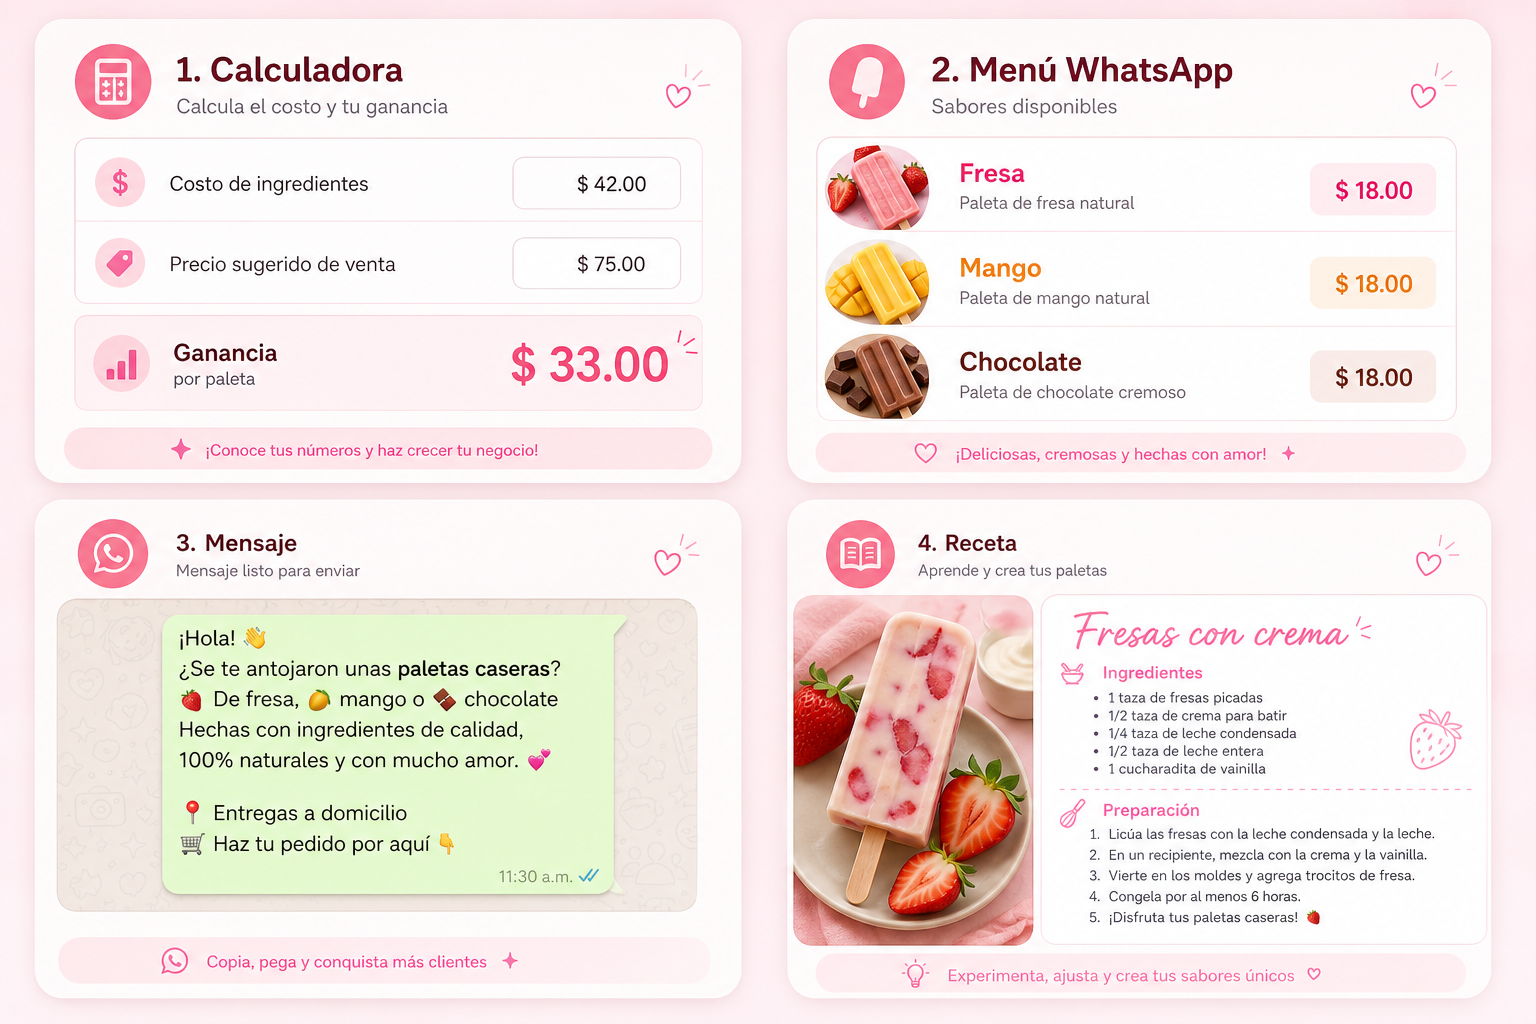
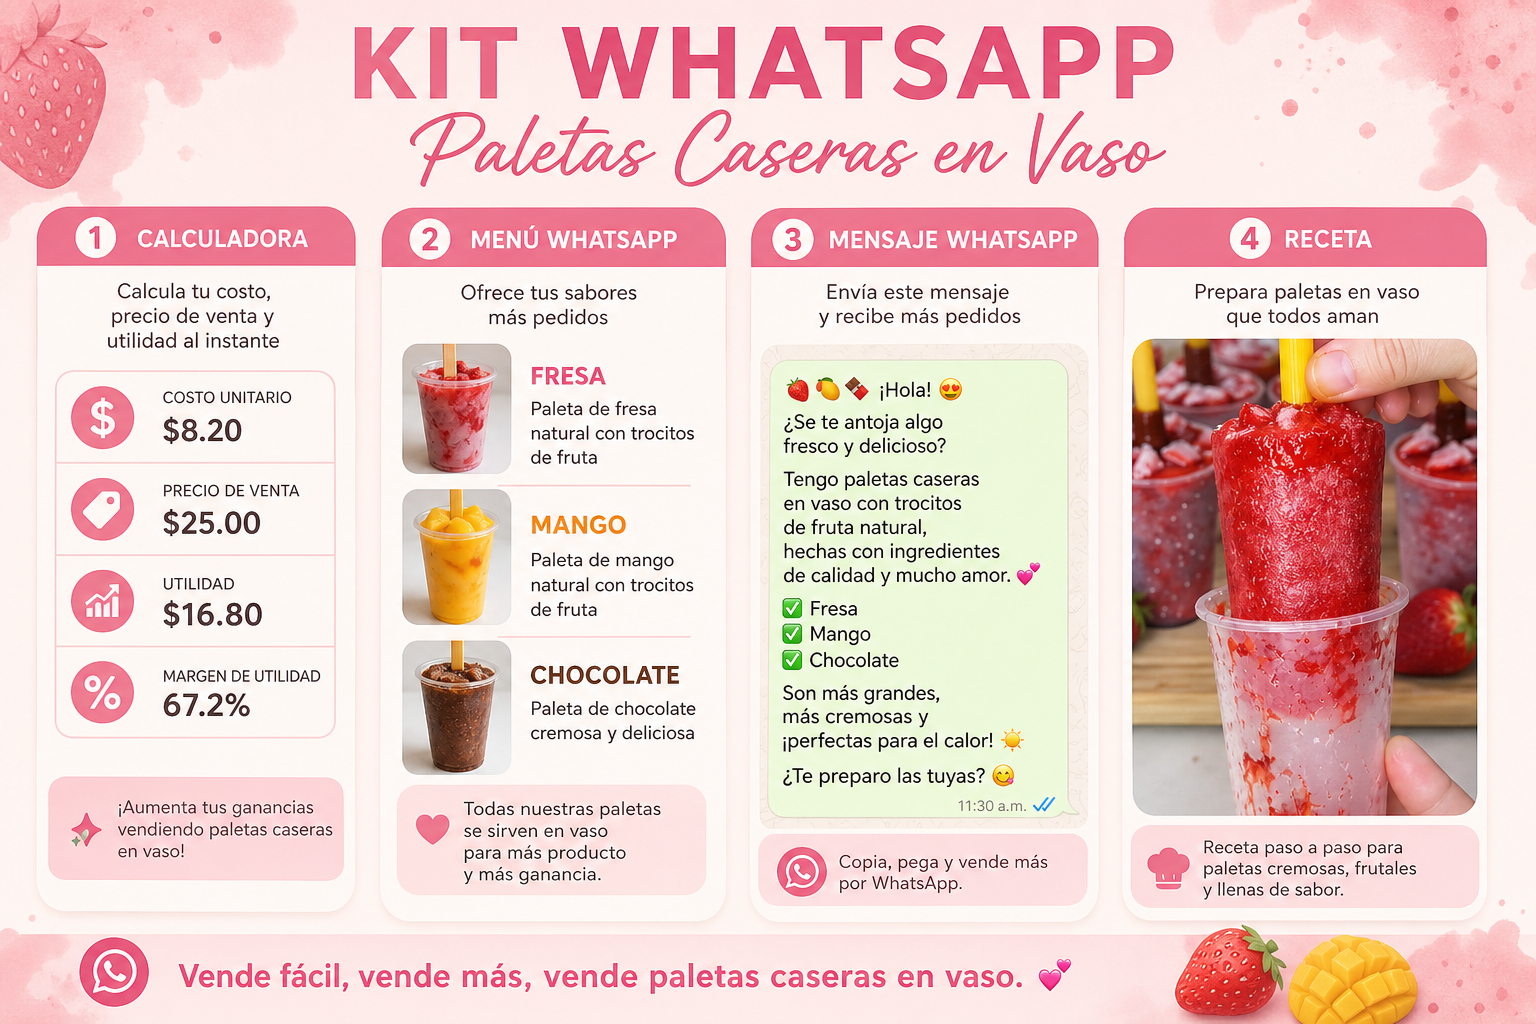
Swap LP food visuals to real paletas-in-cup photos matching the ads.
Remove AI ice-cream-bar mockups that clashed with the product shown in creatives.

diff --git a/styles.css b/styles.css
@@ -3391,8 +3391,31 @@ h3 {
 }
 
 .hero-product-mock {
-  margin: 4px auto 16px;
-  max-width: 400px;
+  margin: 4px auto 12px;
+  max-width: 520px;
+}
+
+.hero-flavor-strip {
+  display: grid;
+  grid-template-columns: 1fr 1.2fr 1fr;
+  gap: 8px;
+  max-width: 520px;
+  margin: 0 auto 18px;
+}
+
+.hero-flavor-strip img {
+  width: 100%;
+  height: 110px;
+  object-fit: cover;
+  border-radius: 14px;
+  border: 1px solid rgba(232, 67, 122, 0.12);
+  box-shadow: 0 8px 18px rgba(61, 34, 40, 0.08);
+}
+
+@media (min-width: 720px) {
+  .hero-flavor-strip img {
+    height: 140px;
+  }
 }
 
 .product-kit {

diff --git a/index.html b/index.html
@@ -89,9 +89,14 @@
     <div class="container">
       <h1>Convierte paletas caseras en una oferta lista para vender por WhatsApp</h1>
       <p class="hero-audience">Para quien quiere empezar una renta extra con paletas, incluso sin experiencia y con poco dinero.</p>
-      <figure class="hero-product-mock" aria-label="Vista del kit digital Paletas para WhatsApp">
-        <img src="/paletas/hero-kit-mockup.png" alt="Mockup del kit: recetas, calculadora, menú y mensajes en el celular" class="hero-product-mock__img" width="720" height="720" loading="eager" fetchpriority="high">
+      <figure class="hero-product-mock" aria-label="Paletas caseras en vaso">
+        <img src="/paletas/hero-variedad-paletas.webp?v=6" alt="Paletas caseras de mango, fresa y chocolate en vaso" class="hero-product-mock__img" width="720" height="480" loading="eager" fetchpriority="high">
       </figure>
+      <div class="hero-flavor-strip" aria-label="Más sabores de paletas">
+        <img src="/paletas/paleta-banada-salsa.webp?v=6" alt="Paleta de fresa bañada en salsa" width="280" height="350" loading="lazy">
+        <img src="/paletas/hero-paletas-fresas.webp?v=6" alt="Paletas de fresa en vaso" width="280" height="350" loading="lazy">
+        <img src="/paletas/preparacion-vasos.webp?v=6" alt="Preparación de paletas caseras en vaso" width="280" height="350" loading="lazy">
+      </div>
       <p class="subheadline">
         Recetas, calculadora, menú editable y mensajes listos para empezar desde casa sin improvisar.
       </p>
@@ -118,9 +123,6 @@
       <p class="section-label">● Así funciona</p>
       <h2>Cuatro pasos. Una oferta lista.</h2>
       <p class="section-text">Elige la receta, calcula el precio, monta el menú y publica en WhatsApp.</p>
-      <figure class="flow-mock">
-        <img src="/paletas/kit-flow-4steps.png" alt="Flujo del kit: receta, calculadora, menú y WhatsApp" class="flow-mock__img" width="960" height="540" loading="lazy">
-      </figure>
       <div class="method-grid">
         <article class="method-card">
           <span class="method-num">1</span>
@@ -181,7 +183,7 @@
       <h2>Esto es lo que recibes</h2>
       <p class="section-text">No son solo recetas. Es un camino para armar tu oferta.</p>
       <figure class="inside-banner">
-        <img src="/paletas/kit-inside-cards.png" alt="Materiales del kit: calculadora, menú, mensajes y receta" class="inside-banner__img" width="960" height="540" loading="lazy">
+        <img src="/paletas/kit-inside-cards.png?v=6" alt="Materiales del kit: calculadora, menú, mensajes y receta con paletas en vaso" class="inside-banner__img" width="960" height="540" loading="lazy">
       </figure>
       <div class="product-grid">
         <article class="product-card">